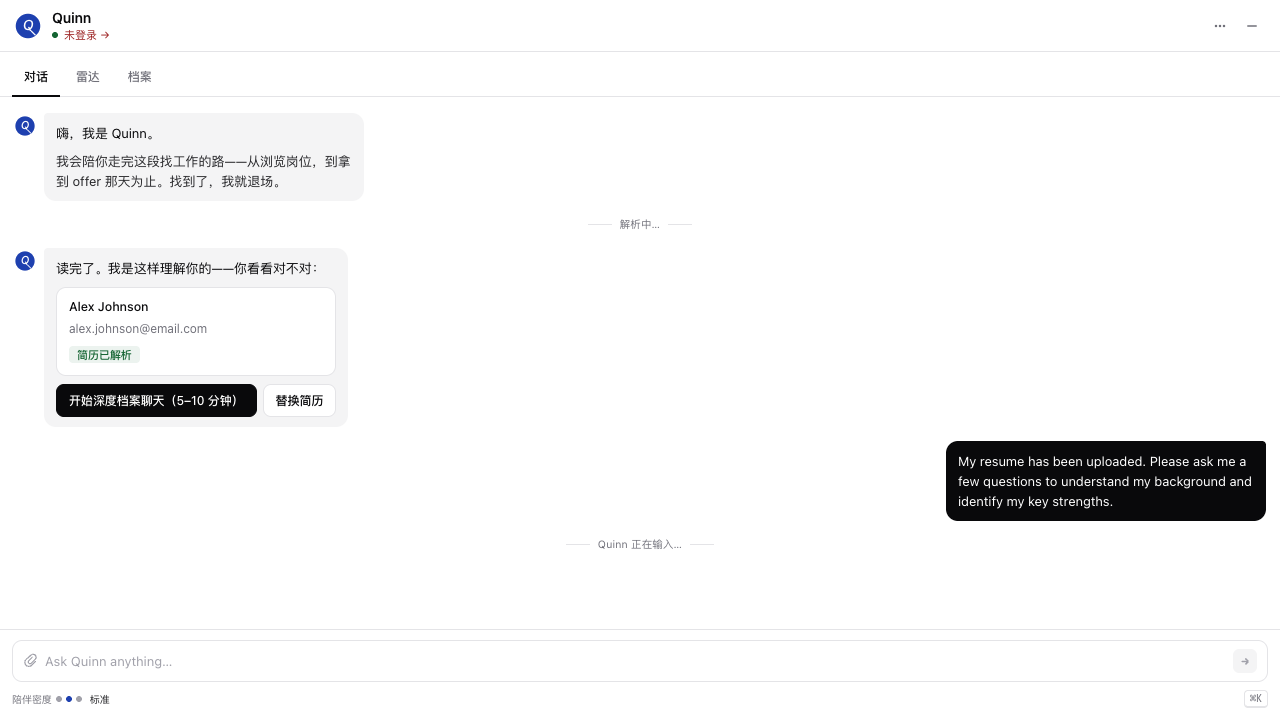
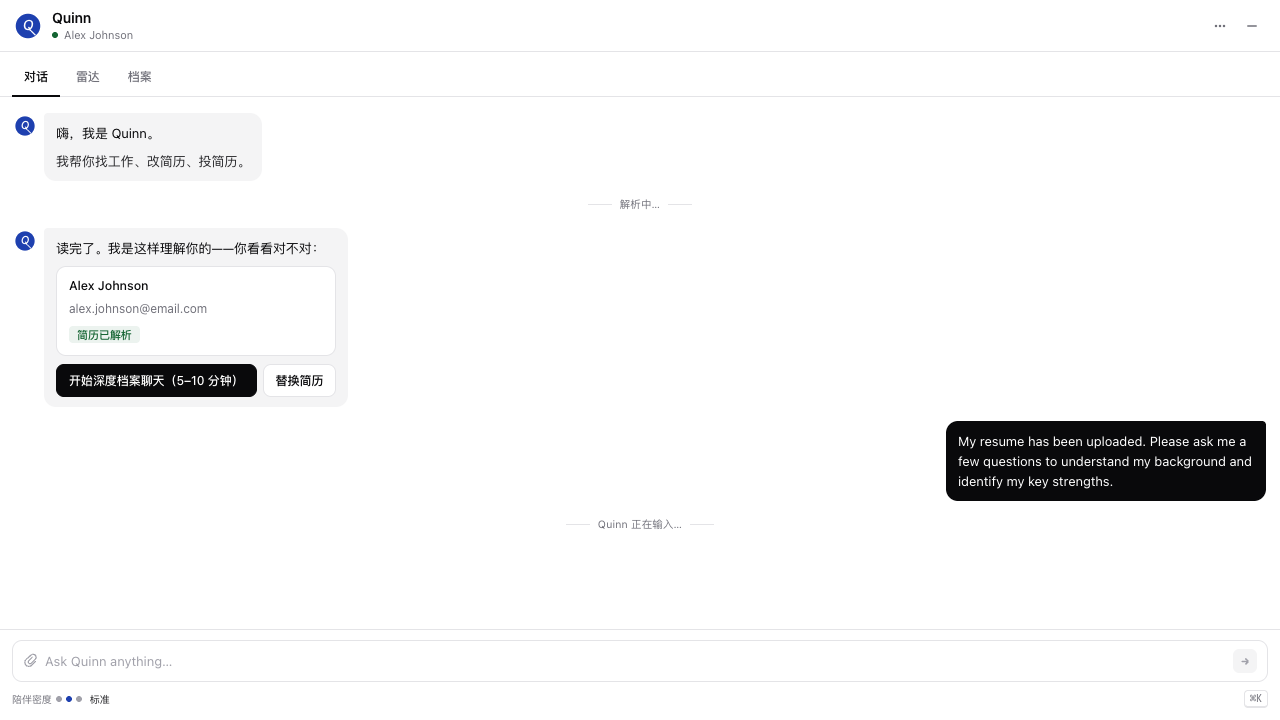
fix login

diff --git a/web/src/app/auth/extension-callback/page.tsx b/web/src/app/auth/extension-callback/page.tsx
@@ -12,9 +12,13 @@ const EXT_ID = process.env.NEXT_PUBLIC_EXTENSION_ID || '';
 export default function ExtensionCallbackPage() {
   const { getToken, isLoaded, isSignedIn } = useAuth();
   const [status, setStatus] = useState<'loading' | 'sent' | 'error' | 'unauthenticated'>('loading');
+  const [errorDetail, setErrorDetail] = useState<string>('');
+  const [retryCount, setRetryCount] = useState(0);
 
   useEffect(() => {
     if (!isLoaded) return;
+    setStatus('loading');
+    setErrorDetail('');
 
     if (!isSignedIn) {
       setStatus('unauthenticated');
@@ -49,16 +53,22 @@ export default function ExtensionCallbackPage() {
 
         // Send token to extension
         if (typeof chrome !== 'undefined' && chrome.runtime?.sendMessage && EXT_ID) {
-          chrome.runtime.sendMessage(EXT_ID, { type: 'AUTH_TOKEN', token: data.token }, (response) => {
-            if (chrome.runtime.lastError) {
-              console.error('Extension messaging error:', chrome.runtime.lastError);
-              setStatus('error');
-            } else if (response?.ok) {
-              setStatus('sent');
-            } else {
-              setStatus('error');
-            }
-          });
+          chrome.runtime.sendMessage(
+            EXT_ID,
+            { type: 'AUTH_TOKEN', token: data.token, expires_at: data.expires_at, user_id: data.user_id },
+            (response) => {
+              if (chrome.runtime.lastError) {
+                const msg = chrome.runtime.lastError.message || 'Unknown error';
+                console.error('Extension messaging error:', msg);
+                setErrorDetail(msg);
+                setStatus('error');
+              } else if (response?.ok) {
+                setStatus('sent');
+              } else {
+                setStatus('error');
+              }
+            },
+          );
         } else {
           console.warn('chrome.runtime not available; token not delivered to extension');
           setStatus('sent');
@@ -70,7 +80,7 @@ export default function ExtensionCallbackPage() {
     }
 
     authenticateWithBackend();
-  }, [isLoaded, isSignedIn, getToken]);
+  }, [isLoaded, isSignedIn, getToken, retryCount]);
 
   return (
     <div className="min-h-screen flex items-center justify-center bg-gray-50">
@@ -97,7 +107,7 @@ export default function ExtensionCallbackPage() {
             <h1 className="text-xl font-semibold mb-2">Not signed in</h1>
             <p className="text-gray-500 text-sm">
               Please{' '}
-              <a href="/login" className="text-brand-600 hover:underline">
+              <a href="/login?redirect_url=/auth/extension-callback" className="text-brand-600 hover:underline">
                 log in
               </a>{' '}
               first, then try again.
@@ -112,6 +122,15 @@ export default function ExtensionCallbackPage() {
               Could not deliver credentials to the extension. Make sure the FindWith extension is
               installed and try again.
             </p>
+            {errorDetail && (
+              <p className="text-xs text-gray-400 mt-2 font-mono break-all">{errorDetail}</p>
+            )}
+            <button
+              className="mt-4 text-sm text-blue-600 hover:underline"
+              onClick={() => setRetryCount((c) => c + 1)}
+            >
+              Try again
+            </button>
           </>
         )}
       </div>

diff --git a/scripts/verify-dev-flow.ts b/scripts/verify-dev-flow.ts
@@ -77,16 +77,44 @@ async function main() {
     }
     log(`IAM /me → ${meResp.status}`);
 
-    // ── 2. Open sidepanel ─────────────────────────────────────────────────────
+    // ── 2. Login flow: side panel updates without reload ──────────────────────
+    // Open side panel with NO token — simulates a fresh install.
+    // Then simulate the website posting AUTH_TOKEN (as if the login popup completed).
+    // The side panel must update the header on its own, no page reload allowed.
     const page = await context.newPage();
     await page.goto(SIDEPANEL);
     await page.waitForLoadState('domcontentloaded');
 
-    // Inject auth token before re-navigating to the canonical sidepanel URL
-    await page.evaluate(async (tok: string) => {
-      await chrome.storage.local.set({ token: tok });
-    }, token);
-    // Re-navigate to canonical URL (not the BrowserRouter-rewritten path)
+    log('Step 0a: Side panel opens unauthenticated');
+    await page.locator('a[href*="extension-callback"]').waitFor({ timeout: 8_000 });
+    await shot(page, '00-unauthenticated');
+
+    // Simulate AUTH_TOKEN arriving in storage (what the website does after login)
+    const sessionResp = await fetch(`${BACKEND}/api/v1/iam/auth/verify`, {
+      method: 'POST',
+      headers: { 'Content-Type': 'application/json' },
+      body: JSON.stringify({ clerkToken: token }),
+    });
+    if (!sessionResp.ok) throw new Error(`auth/verify failed: ${sessionResp.status}`);
+    const { token: sessionToken, expires_at, user_id } = await sessionResp.json() as {
+      token: string; expires_at: number; user_id: string;
+    };
+
+    await page.evaluate(
+      async ({ t, ea, uid }) => {
+        await chrome.storage.local.set({ token: t, expires_at: ea, user_id: uid });
+      },
+      { t: sessionToken, ea: expires_at, uid: user_id },
+    );
+
+    log('Step 0b: AUTH_TOKEN written to storage — waiting for side panel to update WITHOUT reload');
+    // The header "未登录 →" link must disappear and be replaced by the user name/email.
+    await page.locator('a[href*="extension-callback"]').waitFor({ state: 'hidden', timeout: 8_000 });
+    await shot(page, '00-authenticated-no-reload');
+    log('Step 0: Login flow ✓ (side panel updated without reload)');
+
+    // ── 3. Open sidepanel for main flow ───────────────────────────────────────
+    // Re-navigate to the canonical URL so BrowserRouter starts at root.
     await page.goto(SIDEPANEL);
     await page.waitForLoadState('domcontentloaded');
 

diff --git a/web/src/app/login/[[...sign-in]]/page.tsx b/web/src/app/login/[[...sign-in]]/page.tsx
@@ -2,17 +2,20 @@
 
 import { SignIn, useAuth } from '@/lib/auth';
 import { useEffect } from 'react';
-import { useRouter } from 'next/navigation';
+import { useRouter, useSearchParams } from 'next/navigation';
+import { Suspense } from 'react';
 
-export default function LoginPage() {
+function LoginContent() {
   const { isLoaded, isSignedIn } = useAuth();
   const router = useRouter();
+  const searchParams = useSearchParams();
+  const redirectUrl = searchParams.get('redirect_url') || '/dashboard';
 
   useEffect(() => {
     if (isLoaded && isSignedIn) {
-      router.push('/dashboard');
+      router.push(redirectUrl);
     }
-  }, [isLoaded, isSignedIn, router]);
+  }, [isLoaded, isSignedIn, router, redirectUrl]);
 
   if (!isLoaded) {
     return (
@@ -23,15 +26,23 @@ export default function LoginPage() {
   }
 
   if (isSignedIn) {
-    return null; // Will redirect via useEffect
+    return null;
   }
 
   return (
     <div className="min-h-screen flex items-center justify-center bg-gray-50">
       <SignIn
-        redirectUrl="/dashboard"
+        redirectUrl={redirectUrl}
         signUpUrl="/signup"
       />
     </div>
+  );
+}
+
+export default function LoginPage() {
+  return (
+    <Suspense fallback={<div className="min-h-screen flex items-center justify-center bg-gray-50"><p className="text-gray-500">Loading...</p></div>}>
+      <LoginContent />
+    </Suspense>
   );
 }
